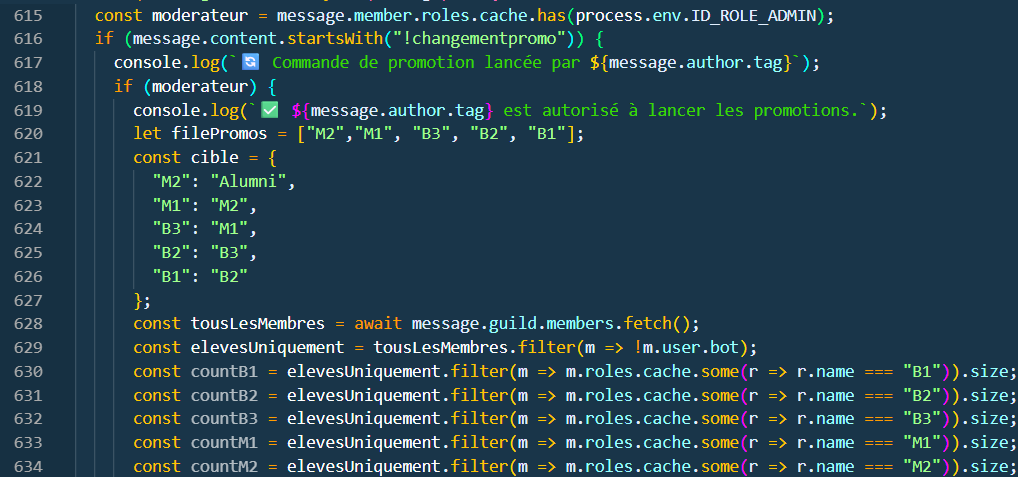
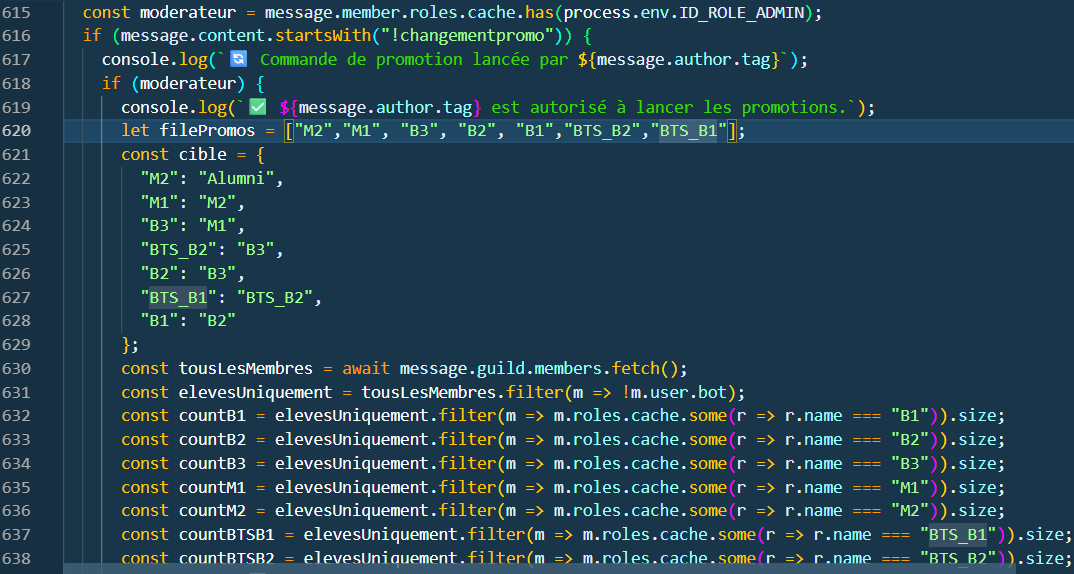
update images

Changed region(s): [[0.0, 0.0, 1.0, 1.0]]

diff --git a/index.js b/index.js
@@ -636,7 +636,8 @@ bot.on("messageCreate", async (message) => {
       const countM2 = elevesUniquement.filter(m => m.roles.cache.some(r => r.name === "M2")).size;
       const countBTSB1 = elevesUniquement.filter(m => m.roles.cache.some(r => r.name === "BTS_B1")).size;
       const countBTSB2 = elevesUniquement.filter(m => m.roles.cache.some(r => r.name === "BTS_B2")).size;
-      console.log(`📊 Effectifs avant promotion : B1=${countB1}, B2=${countB2}, B3=${countB3}, M1=${countM1}, M2=${countM2}, BTS_B1=${countBTSB1}, BTS_B2=${countBTSB2}`);
+      console.log(`📊 Effectifs avant promotion : B1=${countB1}, B2=${countB2}, B3=${countB3}, M1=${countM1}, M2=${countM2}, 
+        BTS_B1=${countBTSB1}, BTS_B2=${countBTSB2}`);
       while (filePromos.length > 0) {
         console.log(`le while commence`);
         const nomAnciennePromo = filePromos.shift();
